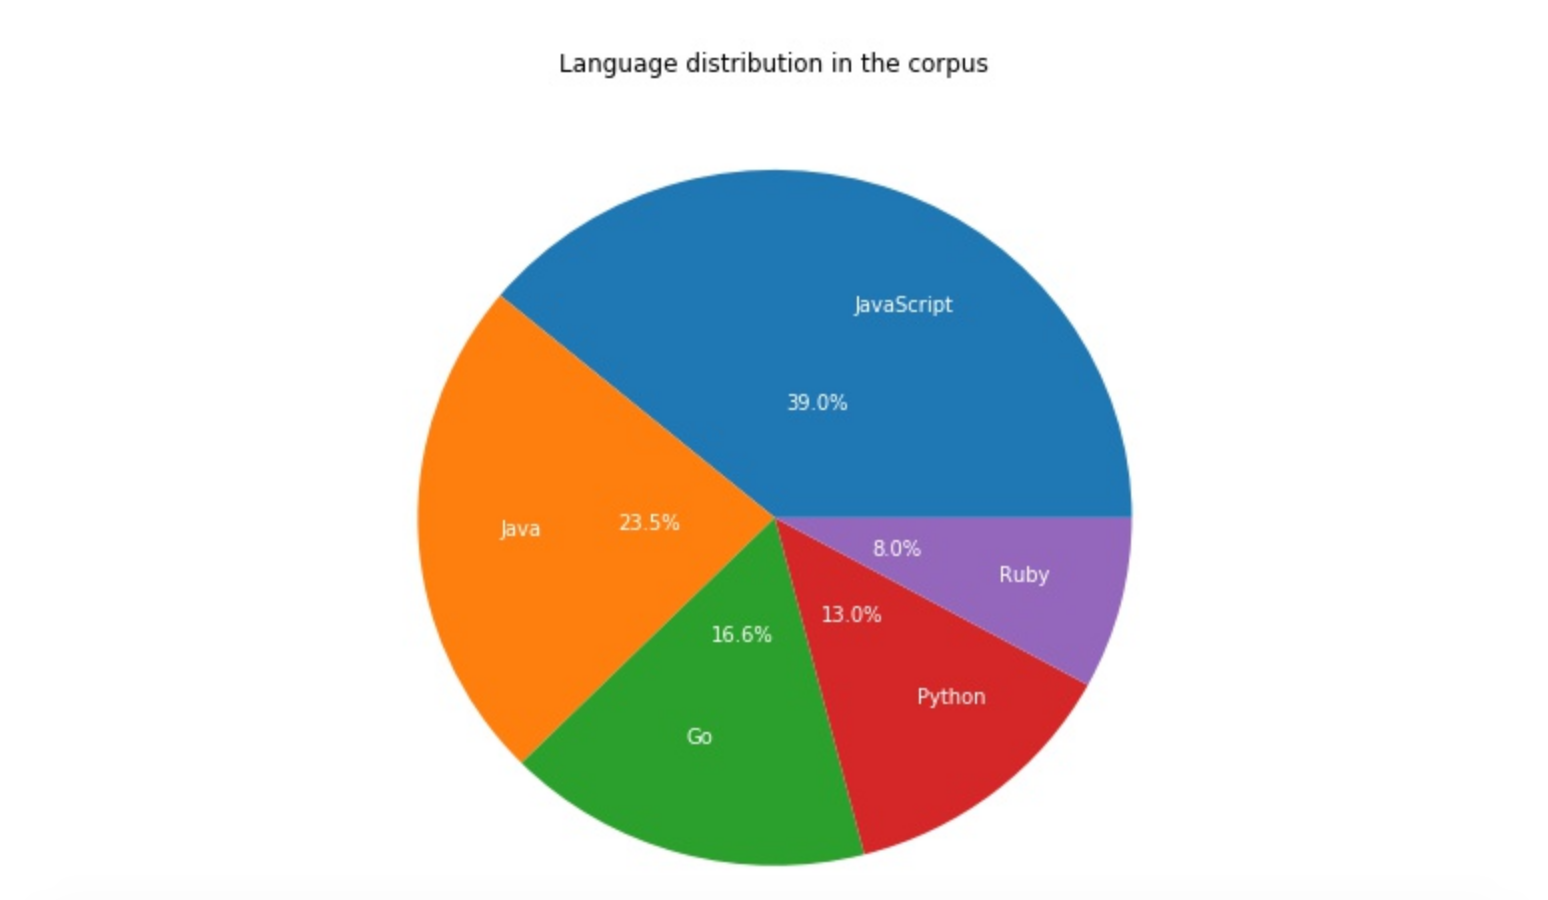
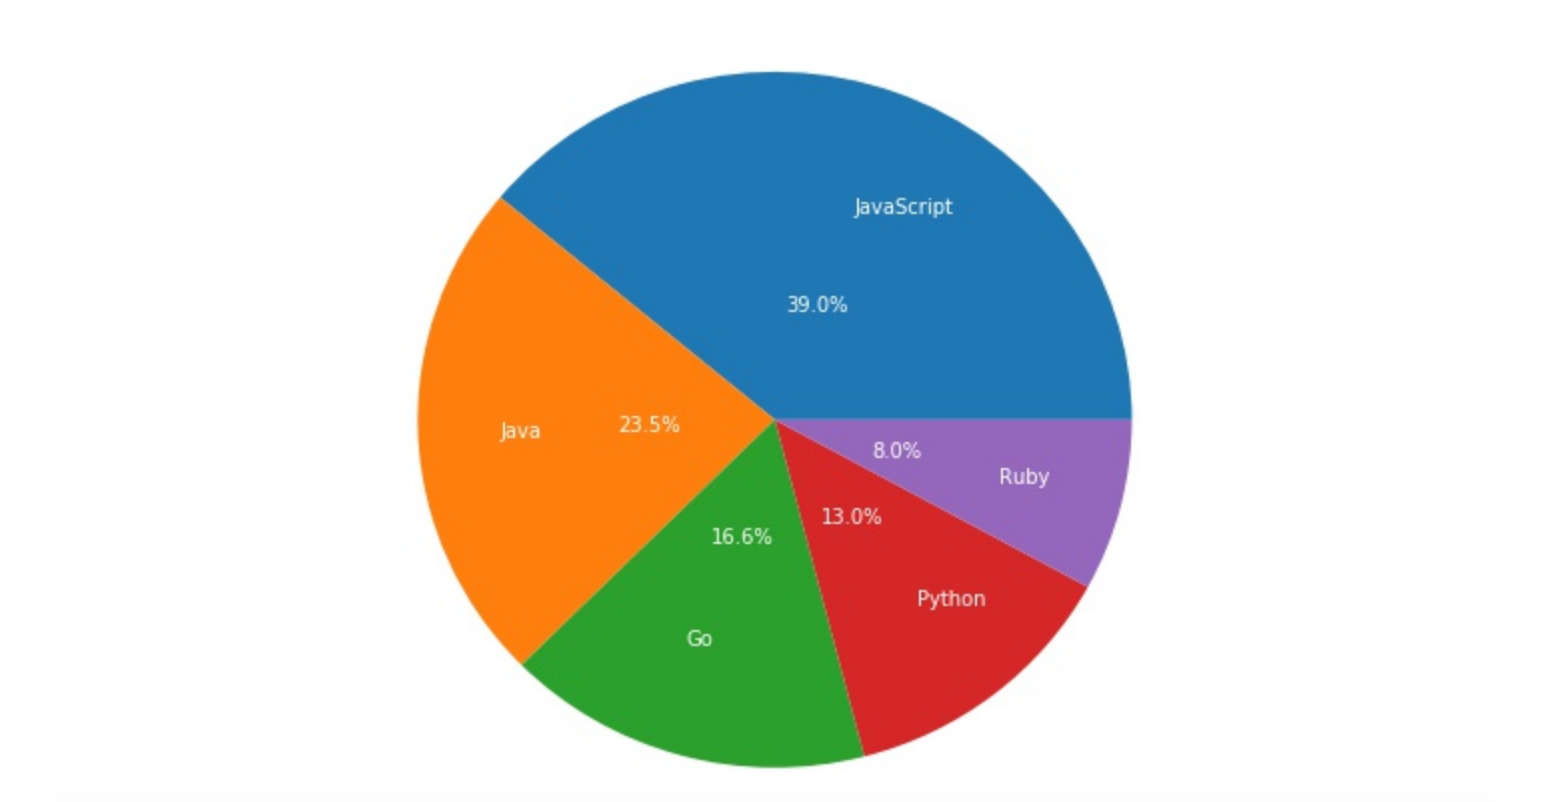
Added labels, cropped pie charts

diff --git a/content/post/deduplicating_pga_with_apollo.md b/content/post/deduplicating_pga_with_apollo.md
@@ -84,7 +84,10 @@ Processed files count|1,021,687|1,848,084|3,066,721|628,081|1,305,344|
 % of processable files|61.06 %|45.95 %|55.26 %|69.02 %|66.51 %|
 
 
-![image](/post/deduplicating_pga_with_apollo/languages.png)
+{{% caption src="/post/deduplicating_pga_with_apollo/languages.png" %}}
+Percentage of files in each language in our corpus.
+{{% /caption %}}
+
 
 
 Looking more into the feature side, we found over 65% of distinct features were 
@@ -140,7 +143,11 @@ both thresholds most of the connected components have a small number of file, as
 their number decreases exponentially with the number of files, the amount of 
 duplication this entails in GitHub's most starred repositories is astonishing.
 
-![nb of files per cc](/post/deduplicating_pga_with_apollo/hist.png)
+{{% caption src="/post/deduplicating_pga_with_apollo/hist.png" %}}
+Log-log histograms of the number of distinct filename in CCs, for the 80% threshold (left)
+and the 95% threshold (right) 
+{{% /caption %}}
+
 
 Even though we'd applied all our pipeline on all files, without separating by language,
 it turned out virtually no CC had files of more then one language, exceptions being
@@ -154,7 +161,11 @@ of `JavaScript` files relative to the others, and also the kind of language it w
 we expected it to dominate as it did, however the amount of duplication we found 
 for `Go` was incredibly high, especially for the 95% threshold. 
 
-![cc_per_languages](/post/deduplicating_pga_with_apollo/cc_per_languages.png)
+{{% caption src="/post/deduplicating_pga_with_apollo/cc_per_languages.png" %}}
+Percentages of CCs (of over 1 file) in each language, for the 80% threshold (left)
+and the 95% threshold (right) 
+{{% /caption %}}
+
 
 
    | Java | Ruby | Python | Javascript | Go |
@@ -181,7 +192,11 @@ average ratio of distinct filenames per file stagnated below 0.1, given us a cle
 indication that the connected components indeed contained files with similar filenames, 
 without having been able to infer it from anything else but their features.
 
-![drop](/post/deduplicating_pga_with_apollo/drop.png)
+{{% caption src="/post/deduplicating_pga_with_apollo/drop.png" %}}
+Average ratio of distinct filenames per file in CCs (of over 1 files) depending on 
+the minimum number of files, for the 80% threshold (left) and the 95% threshold (right)  
+{{% /caption %}}
+
 
 The final step of Apollo was [community detection](https://arxiv.org/abs/1608.00163),
 which would give us a sense of the number of non-similar files in our corpus. We 
@@ -211,14 +226,15 @@ think it is close to representing the reality, at least for our dataset, which i
 why we included it. 
 
 **For the 80 % threshold, we don't have communities for the 4 largest CCs - none
-of the community detection we tried have ended: ** 
+of the community detection we tried have ended:** 
 
-First CC: 261643 files, of all 5 languages  
-Second CC: 123807 files, all JS
-Third CC: 174916 files, all Java
-Fourth CC: 233095 files, all Go
+- First CC: 261,643 files, of all 5 languages  
+- Second CC: 123,807 files, all JS
+- Third CC: 174,916 files, all Java
+- Fourth CC: 233,095 files, all Go
 
-This means % should be higher, depending how much communities there are.
+This means percentage of non duplicate files should be higher, depending how much 
+communities there are, especially for Go, Java, and JavaScript.
 
    | 80 % threshold | 95 % threshold |
 ---|----------------|----------------|
@@ -241,11 +257,12 @@ time on the CCs we chose). Given the number of connected components we could not
 showcase them all, so we decided to select a few we felt were representative of
  our results... 
 
-*We systematically colored the buckets in black for the first method.*
-
 ### D.R.Y. Gophers
 
-![drop](/post/deduplicating_pga_with_apollo/text_parser_go.png)
+{{% caption src="/post/deduplicating_pga_with_apollo/text_parser_go.png" %}}
+Graph of the CC of Go files described below, colored by community. Buckets are colored in black,
+their size depends of their edge count.
+{{% /caption %}}
 
 file count | buckets count | edges count | distinct filenames count | projects count | communities count | threshold |
 -----------|---------------|-------------|--------------------------|----------------|-------------------|-----------|
@@ -258,8 +275,10 @@ filename deduplication).
 
 ### Versioning
 
-![jq](/post/deduplicating_pga_with_apollo/jquery.png)
-
+{{% caption src="/post/deduplicating_pga_with_apollo/jquery.png" %}}
+Graph of the CC of JavaScript files described below, colored by community. Buckets are colored in black,
+their size depends of their edge count.
+{{% /caption %}}
 
 file count | buckets count | edges count | distinct filenames count | projects count | communities count | threshold |
 -----------|---------------|-------------|--------------------------|----------------|-------------------|-----------|
@@ -275,8 +294,15 @@ be predicted - however they only clustered by filename to a limited extent.
 
 ### Grouping by filename ?
 
-![filename_1](/post/deduplicating_pga_with_apollo/filename_1.png)
-![filename_2](/post/deduplicating_pga_with_apollo/filename_2.png)
+{{% caption src="/post/deduplicating_pga_with_apollo/filename_1.png" %}}
+Graph of the CC of Ruby files described below, colored by community. Edges are 
+colored depending on the vertices they link, possibly a mix of two.
+{{% /caption %}}
+{{% caption src="/post/deduplicating_pga_with_apollo/filename_2.png" %}}
+Graph of the CC of Ruby files described below, colored by filename (see legend). 
+Files with names appearing in less then 1% of vertices are colored in grey. Edges are 
+colored as above.
+{{% /caption %}}
 
 file count | edges count | distinct filenames count | projects count | communities count | threshold |
 -----------|-------------|--------------------------|----------------|-------------------|-----------|
@@ -284,10 +310,9 @@ file count | edges count | distinct filenames count | projects count | communiti
 
 This CC is the first obtained for the second threshold, thus plotted without artificial
 vertices - and as you can see the number of edges relative to the number
-of vertices has exploded. In order to show that `Apollo` didn't only group seeminlgy
+of vertices has exploded. In order to show that `Apollo` didn't only group seemingly
 copy-paste files, we not only plotted the communities, but also the groups of vertices 
-sharing a filename (in grey are vertices which have a filename accounting for less 
-then 1% of all files). As you can see, while vertices sharing a name seem to have
+sharing a filename. As you can see, while vertices sharing a name seem to have
 hashed more often to the same buckets, that was not necessarily the case, and
 for some they didn't even end up in the same community. Furthermore, communities
 tend to group up files with distinct filename ore often then not, e.g. the two 
@@ -298,15 +323,17 @@ green not blue ...*
 
 ### Large projects 
 
-![azure](/post/deduplicating_pga_with_apollo/azure.png)
-
+{{% caption src="/post/deduplicating_pga_with_apollo/azure.png" %}}
+Graph of the CC of Python files described below, colored by community. Edges are 
+colored depending on the vertices they link, possibly a mix of two.
+{{% /caption %}}
 
 file count | edges count | distinct filenames count | projects count | communities count | threshold |
 -----------|-------------|--------------------------|----------------|-------------------|-----------|
 4803 | 468,180 | 2954  | 3 | 96|  80 % | 
 
 
-This next CC representss another trend we saw appear, namely CCs with many files 
+This next CC represents another trend we saw appear, namely CCs with many files 
 from a very restrained number of projects. In this case, it is composed of 
 `Python` files almost exclusively stemming from `WindowsAzure`'s SDK for Python, 
 with 23 files located in 2 other Azure projects (the CLI and the IoT SDK). To be fair, 
@@ -315,8 +342,10 @@ there would be al lot of duplication ...
 
 ### Coding conventions
 
-![ads](/post/deduplicating_pga_with_apollo/googleads.png)
-
+{{% caption src="/post/deduplicating_pga_with_apollo/googleads.png" %}}
+Graph of the CC of Java files described below, colored by community. Edges are 
+colored depending on the vertices they link, possibly a mix of two.
+{{% /caption %}}
 
 file count | edges count | distinct filenames count | projects count | communities count | threshold |
 -----------|-------------|--------------------------|----------------|-------------------|-----------|
